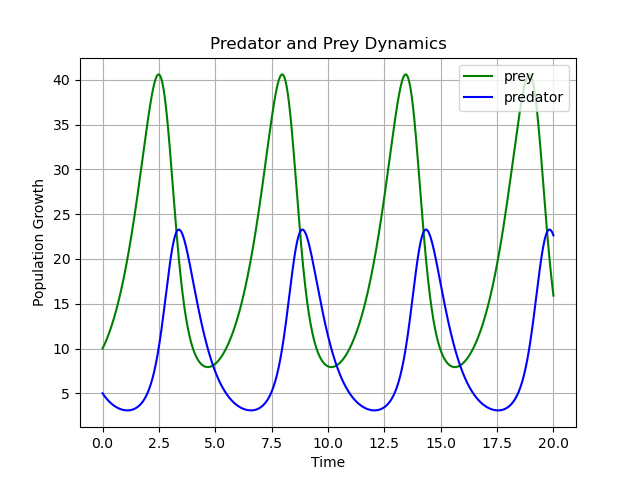
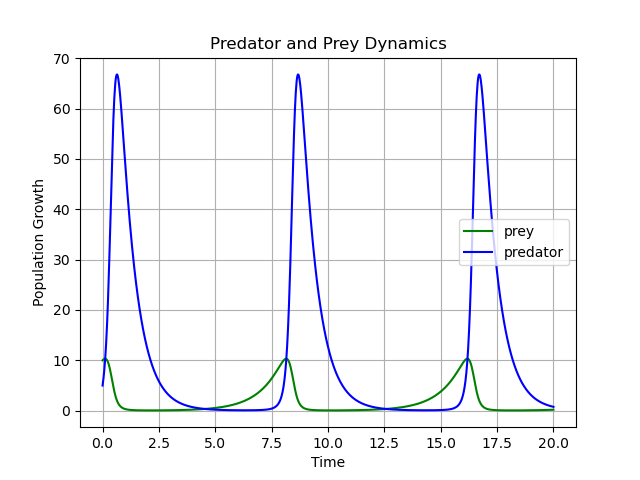
finish model implementation

diff --git a/lotka-volterra.py b/lotka-volterra.py
@@ -20,6 +20,40 @@ import argparse
 """
 
 
+
+def plot_phase_curve(callable, alpha, beta, gamma, delta, time):
+    values = np.linspace(0.2, 0.9, 4)
+    colors = pylab.cm.autumn_r(np.linspace(0.3, 1., len(values)))
+
+    figure = pylab.figure()
+    for value in values:
+        initial_position = value * np.array([gamma/delta, alpha/beta])
+        solution, _ = integrate.odeint(callable, initial_position,time,
+                                full_output=True)
+        pylab.plot(
+            solution[:,0], solution[:,1], lw=3.5*value
+        )
+    """ compute vector at each point to get the vector field"""
+    x_axis = np.linspace(0, pylab.xlim(xmin=0)[1], 20)
+    y_axis = np.linspace(0, pylab.ylim(ymin=0)[1], 20)
+
+    grid_x, grid_y = np.meshgrid(x_axis, y_axis)
+    growth_rate_x, growth_rate_y = callable([grid_x, grid_y])
+
+    """ plotting the phase curve"""
+    pylab.title('Trajectories and direction fields')
+    pylab.quiver(
+        grid_x, grid_y, growth_rate_x, growth_rate_y, pivot='mid'
+        )
+    pylab.xlabel('Prey Population')
+    pylab.ylabel('Predator Population')
+    pylab.grid()
+    pylab.xlim(0, pylab.xlim(xmin=0)[1])
+    pylab.ylim(0, pylab.ylim(ymin=0)[1])
+    figure.savefig('results/phase_curve.png')
+
+
+
 def main(args):
     """ retrieve model parameters """
     alpha = args.alpha
@@ -34,7 +68,7 @@ def main(args):
 
     def get_growth_rates(initial_condition, time=0):
         prey_growth_rate = alpha * initial_condition[0] - beta * initial_condition[0] * initial_condition[1]
-        pred_growth_rate = delta * beta * initial_condition[0] * initial_condition[1] - gamma * initial_condition[1]
+        pred_growth_rate = delta * initial_condition[0] * initial_condition[1] - gamma * initial_condition[1]
         return np.array([prey_growth_rate, pred_growth_rate])
 
     """ Solve the ODE"""
@@ -42,6 +76,7 @@ def main(args):
     solution, message = integrate.odeint(get_growth_rates, initial_condition,
                                                 time, full_output=True)
 
+    """ Plotting the evolution of the rabit and wolves populations"""
     prey, predator = solution.T
     figure1 = pylab.figure()
     pylab.plot(time, prey, '-g', label='prey')
@@ -54,8 +89,9 @@ def main(args):
     pylab.title('Predator and Prey Dynamics')
     figure1.savefig('results/fig1.png')
 
-
-    """ Plotting the evolution of the rabit and wolves populations"""
+    """ Plotting the phase curve with the vector field"""
+    plot_phase_curve(get_growth_rates, alpha, beta, gamma, delta, time)
+    
 
 
 if __name__=='__main__':
